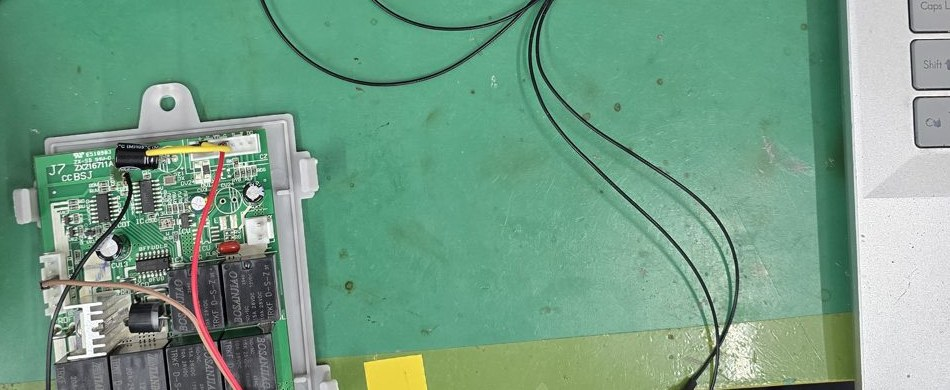
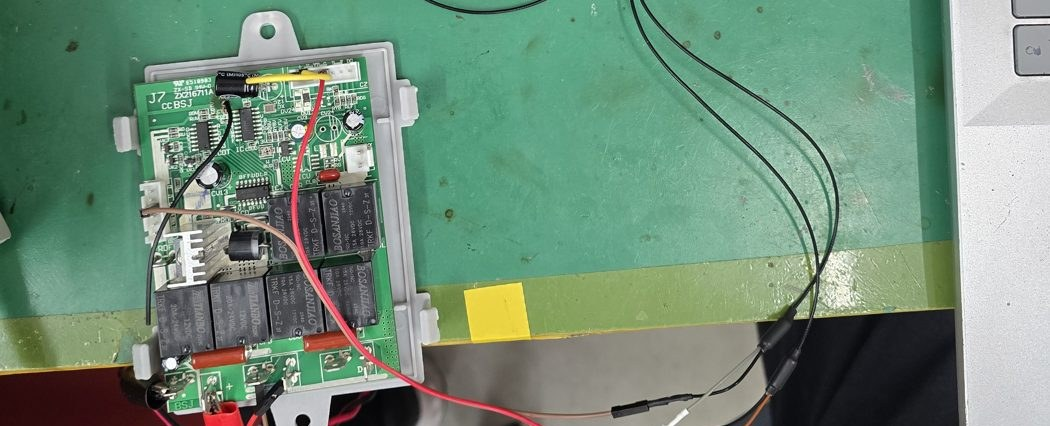
fix: week 7-1 slide 6 shows the whole relay board -- the photo crop (rows 600-990) ended above the board's bottom edge and the ~2.9:1 slot cut it again with object-fit: cover; the crop is now full width, rows 672-1098 of the week 5 photo (1050 x 426, housing tab to the board's bottom edge, the perso
Claude-Session: https://claude.ai/code/session_01ENbYDSEek2QYULuUxH1jEg

diff --git a/week-07-1/index.html b/week-07-1/index.html
@@ -3,7 +3,7 @@
 <link rel="icon" href="data:,">
 <script src="vendor/react.production.min.js"></script><script src="vendor/react-dom.production.min.js"></script><script src="./support.js"></script></head>
 <body><x-dc><helmet><meta name="viewport" content="width=device-width, initial-scale=1"><title>리보틱스 중간 미팅 · 자율 지게차 중간 점검</title>
-<link rel="stylesheet" href="vendor/uos-slide-template/fonts/fonts.css"><link rel="stylesheet" href="vendor/uos-slide-template/_ds_bundle.css"><link rel="stylesheet" href="vendor/uos-slide-template/styles.css"><link rel="stylesheet" href="deck.css?v=3e90f07bef5c"><script src="vendor/uos-slide-template/_ds_bundle.js"></script></helmet>
+<link rel="stylesheet" href="vendor/uos-slide-template/fonts/fonts.css"><link rel="stylesheet" href="vendor/uos-slide-template/_ds_bundle.css"><link rel="stylesheet" href="vendor/uos-slide-template/styles.css"><link rel="stylesheet" href="deck.css?v=46de4c921c61"><script src="vendor/uos-slide-template/_ds_bundle.js"></script></helmet>
 <x-import component-from-global-scope="deck-stage" from="./deck-stage.js" width="1280" height="720" hint-size="100%,100%">
 <section class="title-section" data-label="리보틱스 중간 미팅" data-screen-label="01" data-duration="20" data-speaker-notes="권장 20초
 

diff --git a/week-07-1/deck.css b/week-07-1/deck.css
@@ -693,3 +693,8 @@ video::-webkit-media-controls, video::-webkit-media-controls-enclosure { display
 .legend .sw.ramp { width:132px; height:12px; border-radius:2px; }
 .legend .sw.none { width:12px; height:12px; border:1px solid #6b7480; }
 .legend .sep { display:inline-block; width:1px; height:15px; background:currentColor; opacity:.35; }
+/* 6: the whole relay board in view -- the photo keeps its own aspect (1050 x 426) instead of a cover crop,
+   the table takes the height left under it */
+.m7-info > .m7-photo { flex:none; width:100%; height:auto; aspect-ratio:1050 / 426; object-fit:contain; }
+.comparison.t6.m7-ctrl { font-size:19px; line-height:1.3; }
+.comparison.t6.m7-ctrl th, .comparison.t6.m7-ctrl td { padding:8px 12px; }

diff --git a/week-07-1/prepare_figures.py b/week-07-1/prepare_figures.py
@@ -26,7 +26,7 @@ Writes assets/ (published with the page; the deck font Noto Sans CJK is the syst
 6. `hardware` -- from the week 5 records in ../week-05/assets: 44_waveforms.png, the existing
    controller's two lines per command redrawn from data_la_edges.json (DSLogic Pro, 1 MHz; the
    numbers are the time a line stayed high, runs under 10 ms are contact bounce); 43_la_setup.jpg,
-   the measurement photo cropped to the relay board and its probes (no people); 45_sch_drv_channel.png, one DRV8244
+   the measurement photo cropped to the whole relay board and its probes, full width (no people); 45_sch_drv_channel.png, one DRV8244
    channel of the circuit draft (40_sch_drv8244.png) enlarged 2x.
 
 7. `brief` -- 57_brief_{a,b,c,d}.png, the brief's own drawings of cases A-D (slides 8-11) without title
@@ -409,7 +409,8 @@ def hardware_photos():
     """The week 5 measurement photo without the people at the bottom, and one driver channel of
     the circuit draft enlarged (the three channels are the same circuit)."""
     from PIL import Image
-    Image.open(WEEK5 / '37_la_setup.jpg').crop((100, 600, 1050, 990)).save(ASSETS / '43_la_setup.jpg', quality=88)
+    # the whole relay board (housing tab to the board's bottom edge), full width: 1050 x 426, 2.47 : 1
+    Image.open(WEEK5 / '37_la_setup.jpg').crop((0, 672, 1050, 1098)).save(ASSETS / '43_la_setup.jpg', quality=88)
     sch = Image.open(WEEK5 / '40_sch_drv8244.png').convert('RGB').crop((95, 100, 722, 408))
     sch.resize((sch.width * 2, sch.height * 2), Image.LANCZOS).save(ASSETS / '45_sch_drv_channel.png')
     return ['43_la_setup.jpg', '45_sch_drv_channel.png']

diff --git a/week-07-1/SOURCES.md b/week-07-1/SOURCES.md
@@ -30,7 +30,7 @@
 | `assets/41_structure.png` | 부록 1 (19쪽) | `prepare_figures.py` structure (matplotlib) — slam_pose · slam_link · obstacle_grid · drive_permission · planning_memory · scan_match · scan_docking 의 데이터 흐름을 위치 · 장애물 · 경로 · 하역 네 줄로 |
 | `assets/40_system.png` | 4 | `prepare_figures.py` system (matplotlib) — 하드웨어 기록과 5주차 회로 초안의 부품 · 상태. 모터 칸은 5주차 역분석 보고의 재사용 목록대로 "주행 · 리프트 (기존) · 조향 · 12 V 배터리" |
 | `assets/44_waveforms.png` | 6 | `prepare_figures.py hardware` — 5주차 `week-05/assets/data_la_edges.json`(DSLogic Pro 1 MHz 2채널, 주행 · 승강 · 조향)을 다시 그림. 숫자는 한 선이 켜져 있던 시간(10 ms 미만은 접점 튐), 짧은 세로선은 누르는 순간 두 선이 2.95–3.43 ms 같이 켜진 것 |
-| `assets/43_la_setup.jpg` | 6 | 5주차 `37_la_setup.jpg`(2026-09-29–30 측정 사진, EXIF 제거)에서 릴레이 기판과 탐침 부분만 자름(사람이 찍힌 아래쪽 제외) |
+| `assets/43_la_setup.jpg` | 6 | 5주차 `37_la_setup.jpg`(2026-09-29–30 측정 사진, 1050 × 1400, EXIF 제거)에서 릴레이 기판 전체(케이스 위 고리 ~ 기판 아래 끝)와 탐침이 들어가도록 전체 폭 · 세로 672–1098 px 를 자름(1050 × 426, 사람이 찍힌 아래쪽 제외). 슬라이드에서는 이 비율 그대로(잘라 내지 않음) 보임 |
 | `assets/45_sch_drv_channel.png` | 7 | 5주차 팀 회로 초안 `40_sch_drv8244.png` 의 L 채널(DRV8244 한 개)을 잘라 2배 확대 |
 | `30_chassis_pallet.jpg` | 5 | 5주차 자산 그대로(2026-09-30 실물 사진, EXIF 제거) |
 | `71_mission.mp4` · `46_new_obstacle_single.mp4` · `45_slam_error.mp4` | 3 · 11 · 부록 2 | 위 '글자 없는 재합성'에서 자름 (`prepare_clips.py mission · obstacle · slam`): 조감 칸 12배속 / 6주차 7쪽과 같은 73–118 s 구간의 조감 + 지도 칸 2배속 / 지도 칸 + 오차 두 줄 12배속. 영상 위 글자 없이, 색 의미는 슬라이드 범례(합성기의 RGB 값: 계획 경로 255, 214, 0 · 직전 경로 150, 150, 160 · LiDAR 칸 255, 130, 30 · 새 장애물 윤곽 255, 40, 40 · 실제 70, 150, 255 · SLAM 235, 45, 45 · 오도메트리 255, 160, 30 · 목적지 0, 200, 60). 6주차 영상(글자 있음)은 week-06 에 그대로 |
